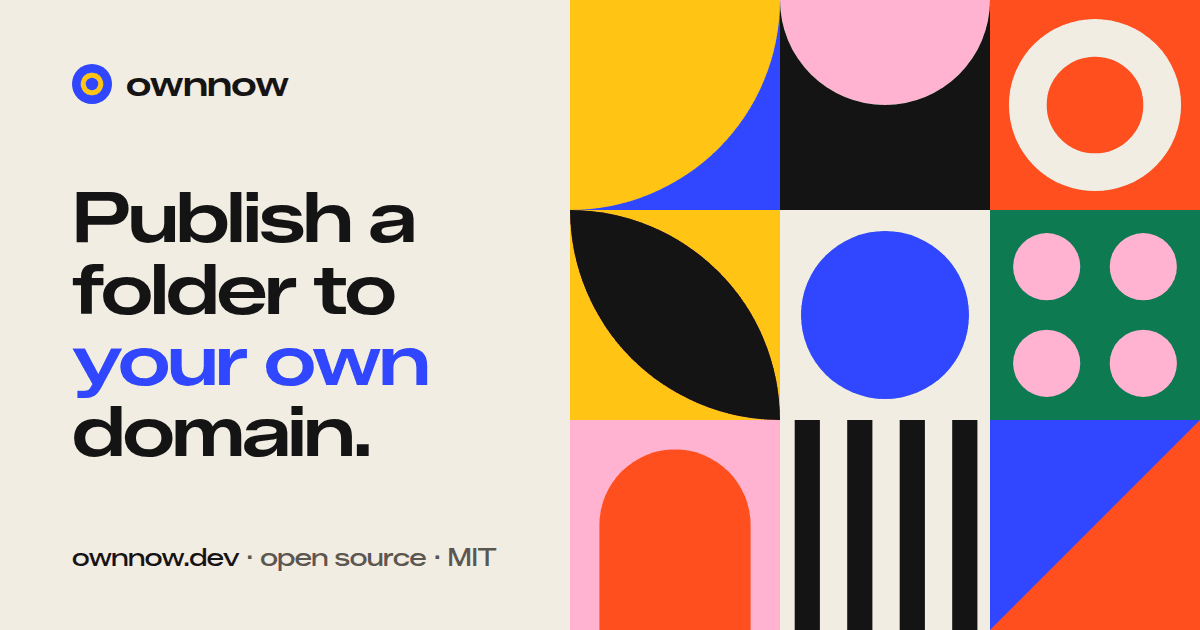
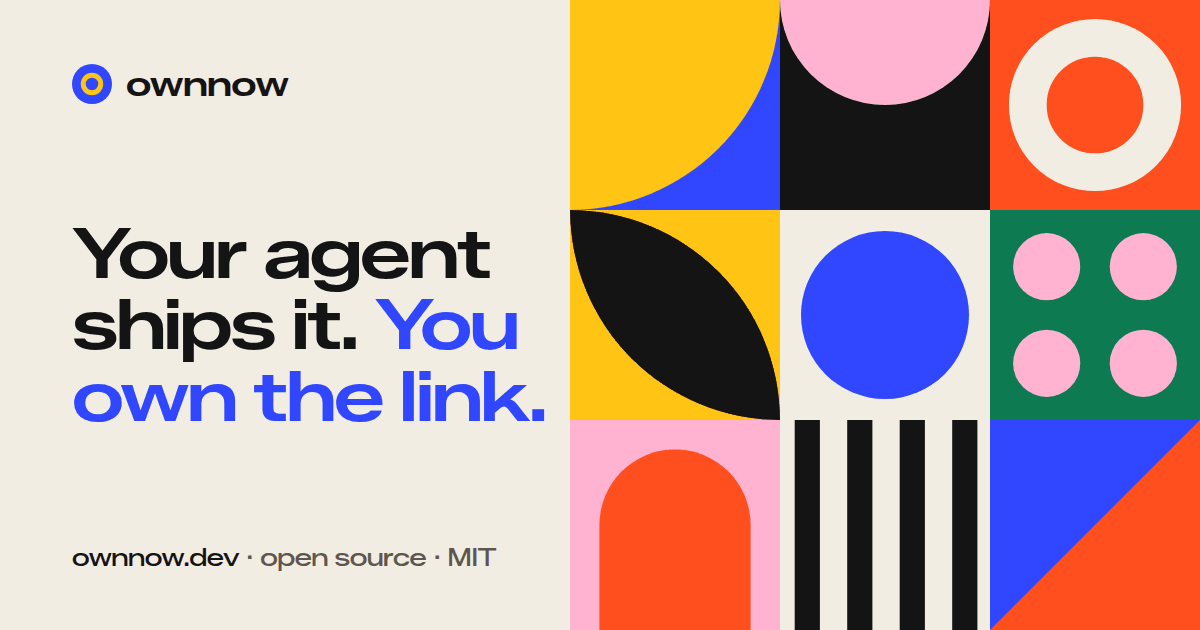
Landing page: agent-first hero copy
Hero: "Your agent ships it. You own the link." with an
"Open-source here.now alternative" label and a lede about telling your
agent to publish. Closing becomes "Your domain. Your links." so it no
longer repeats the hero. Social titles and og.png match.

Changed region(s): [[0.0617, 0.3016, 0.4625, 0.7238]]

diff --git a/examples/demo-site/index.html b/examples/demo-site/index.html
@@ -14,14 +14,14 @@
 <meta property="og:type" content="website">
 <meta property="og:site_name" content="ownnow">
 <meta property="og:url" content="https://ownnow.dev/">
-<meta property="og:title" content="ownnow · Publish a folder to your own domain">
+<meta property="og:title" content="ownnow · Your agent ships it. You own the link.">
 <meta property="og:description" content="Publish a file or folder and get a live URL on your own domain and storage. ownnow is an open-source, self-hosted here.now: one Go binary, MIT licensed.">
 <meta property="og:image" content="https://ownnow.dev/og.png">
 <meta property="og:image:width" content="1200">
 <meta property="og:image:height" content="630">
-<meta property="og:image:alt" content="ownnow: Publish a folder to your own domain. A grid of bold geometric tiles.">
+<meta property="og:image:alt" content="ownnow: Your agent ships it. You own the link. A grid of bold geometric tiles.">
 <meta name="twitter:card" content="summary_large_image">
-<meta name="twitter:title" content="ownnow · Publish a folder to your own domain">
+<meta name="twitter:title" content="ownnow · Your agent ships it. You own the link.">
 <meta name="twitter:description" content="Publish a file or folder and get a live URL on your own domain and storage. ownnow is an open-source, self-hosted here.now: one Go binary, MIT licensed.">
 <meta name="twitter:image" content="https://ownnow.dev/og.png">
 <script type="application/ld+json">
@@ -97,8 +97,8 @@
   .hero{display:grid; grid-template-columns:1fr auto; align-items:center; gap:clamp(2rem,4vw,4rem); min-height:calc(100svh - 7rem); padding-top:72px; overflow:clip}
   .hero-copy{padding-left:var(--edge); padding-block:3rem}
   .hero .label{color:var(--muted)}
-  h1{font-size:clamp(2.5rem, 5vw, 4.9rem); line-height:.98; margin-top:1.4rem; max-width:12ch}
-  h1 em{color:var(--blue); white-space:nowrap}
+  h1{font-size:clamp(2.5rem, 5vw, 4.9rem); line-height:.98; margin-top:1.4rem; max-width:14ch}
+  h1 em{color:var(--blue); display:block}
   .lede{margin-top:1.6rem; font-size:clamp(1.05rem,1.4vw,1.2rem); color:var(--muted); max-width:30rem}
   .hero .actions{margin-top:2rem}
 
@@ -265,9 +265,9 @@
 <main id="top">
   <div class="hero">
     <div class="hero-copy">
-      <p class="label rise" style="--i:0">Open source · MIT</p>
-      <h1 class="rise" style="--i:1">Publish a folder to <em>your own</em> domain.</h1>
-      <p class="lede rise" style="--i:2">ownnow is a self-hosted here.now. One Go binary, your domain, your storage. Nobody in the middle.</p>
+      <p class="label rise" style="--i:0">Open-source here.now alternative</p>
+      <h1 class="rise" style="--i:1">Your agent ships it. <em>You own the link.</em></h1>
+      <p class="lede rise" style="--i:2">Tell your agent “publish this” and get a live URL in seconds. Your server, your domain, your storage.</p>
       <div class="actions rise" style="--i:3">
         <a class="btn" href="https://github.com/harssha6/ownnow">
           <svg viewBox="0 0 16 16" fill="currentColor" aria-hidden="true"><path d="M8 0C3.58 0 0 3.58 0 8c0 3.54 2.29 6.53 5.47 7.59.4.07.55-.17.55-.38 0-.19-.01-.82-.01-1.49-2.01.37-2.53-.49-2.69-.94-.09-.23-.48-.94-.82-1.13-.28-.15-.68-.52-.01-.53.63-.01 1.08.58 1.23.82.72 1.21 1.87.87 2.33.66.07-.52.28-.87.51-1.07-1.78-.2-3.64-.89-3.64-3.95 0-.87.31-1.59.82-2.15-.08-.2-.36-1.02.08-2.12 0 0 .67-.21 2.2.82.64-.18 1.32-.27 2-.27.68 0 1.36.09 2 .27 1.53-1.04 2.2-.82 2.2-.82.44 1.1.16 1.92.08 2.12.51.56.82 1.27.82 2.15 0 3.07-1.87 3.75-3.65 3.95.29.25.54.73.54 1.48 0 1.07-.01 1.93-.01 2.2 0 .21.15.46.55.38A8.013 8.013 0 0016 8c0-4.42-3.58-8-8-8z"/></svg>
@@ -399,7 +399,7 @@
   <section class="closing">
     <div class="wrap reveal">
       <p class="label">Get started</p>
-      <h2>Own the <em>link.</em></h2>
+      <h2>Your domain. <em>Your links.</em></h2>
       <div class="actions">
         <a class="btn" href="https://github.com/harssha6/ownnow">View on GitHub</a>
         <a class="btn ghost" href="https://github.com/harssha6/ownnow/releases">Download a release ↗</a>
